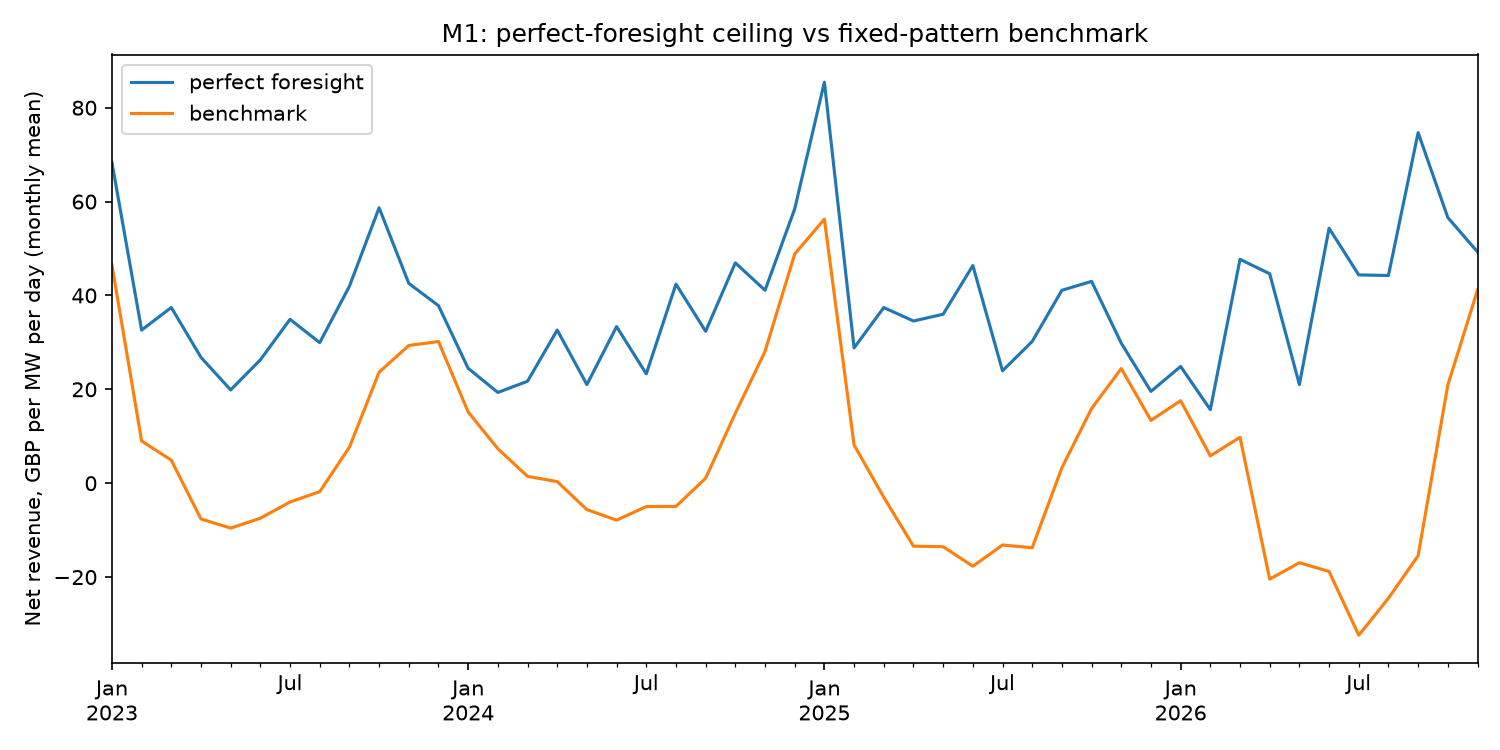
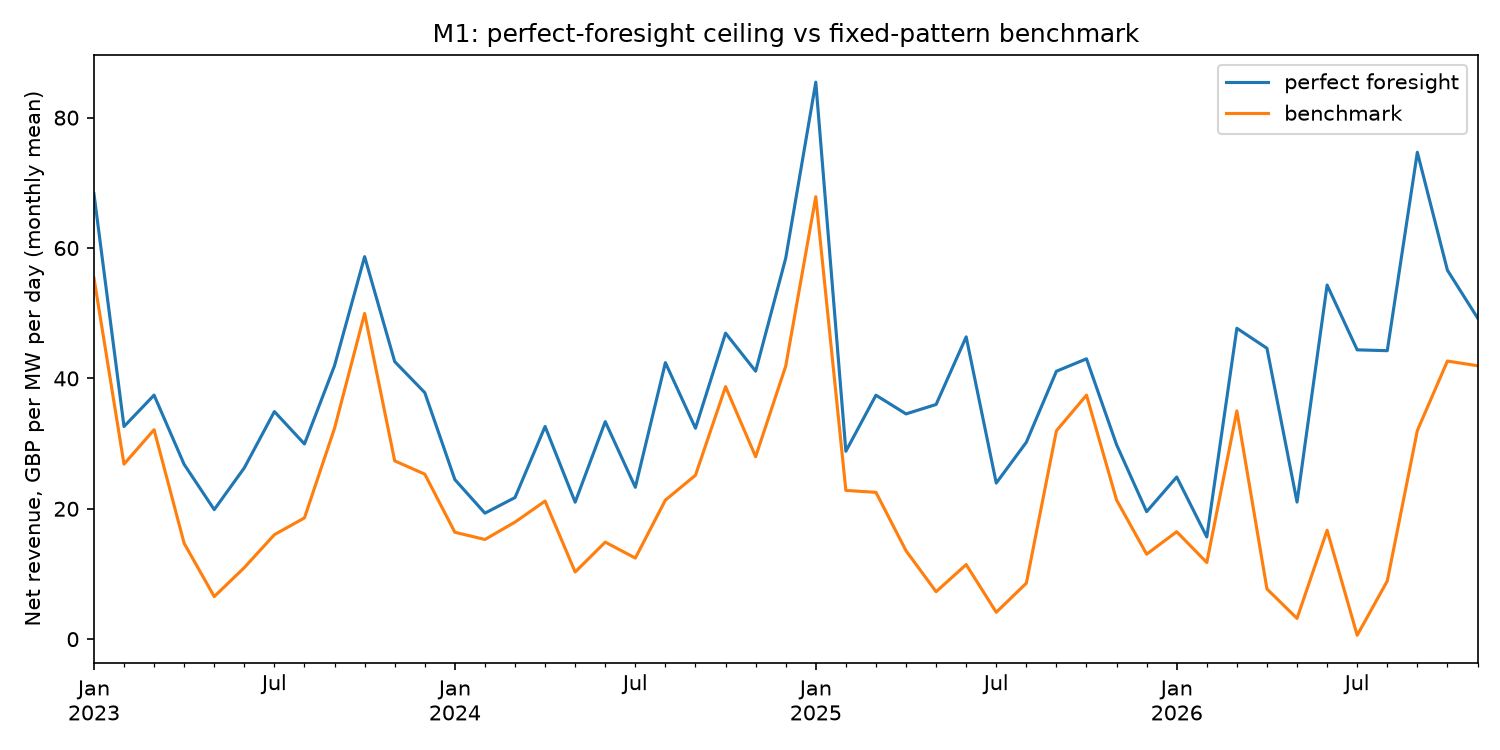
Benchmark: fixed hours picked from pre-2023 prices (was 02:00/16:00; mean 4.50 -> 22.36)

diff --git a/src/dispatch/benchmark.py b/src/dispatch/benchmark.py
@@ -12,11 +12,12 @@ skipped on clock-change days, so the same pattern is valid on 23-, 24- and
 from __future__ import annotations
 
 import numpy as np
+import pandas as pd
 
 from src.dispatch.battery import BatteryParams, Schedule, soc_path
 
-DEFAULT_CHARGE_HOURS = (2, 3, 4, 5)
-DEFAULT_DISCHARGE_HOURS = (16, 17, 18, 19)
+DEFAULT_CHARGE_HOURS = (4,)  # delivery during peak hours to better represent forecast
+DEFAULT_DISCHARGE_HOURS = (18,)  # delivery during peak hours to better represent forecast
 
 
 def fixed_window_schedule(
